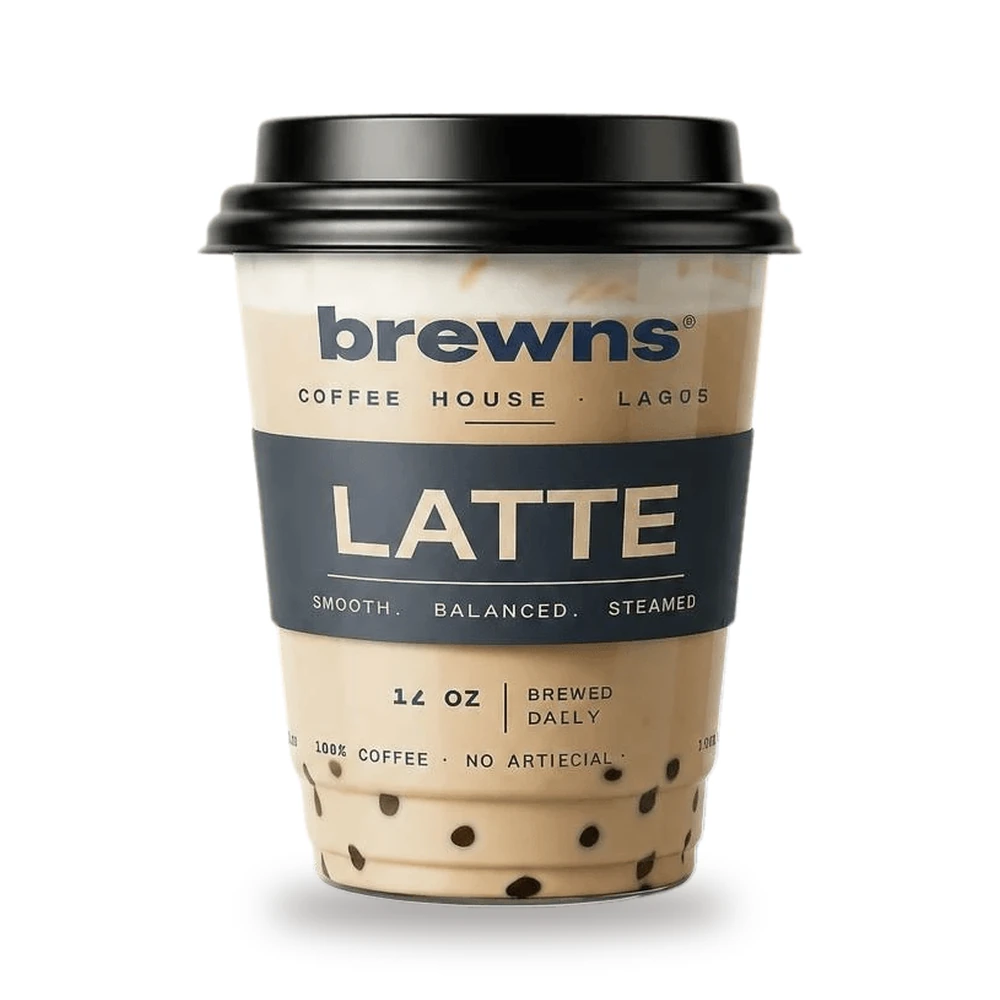
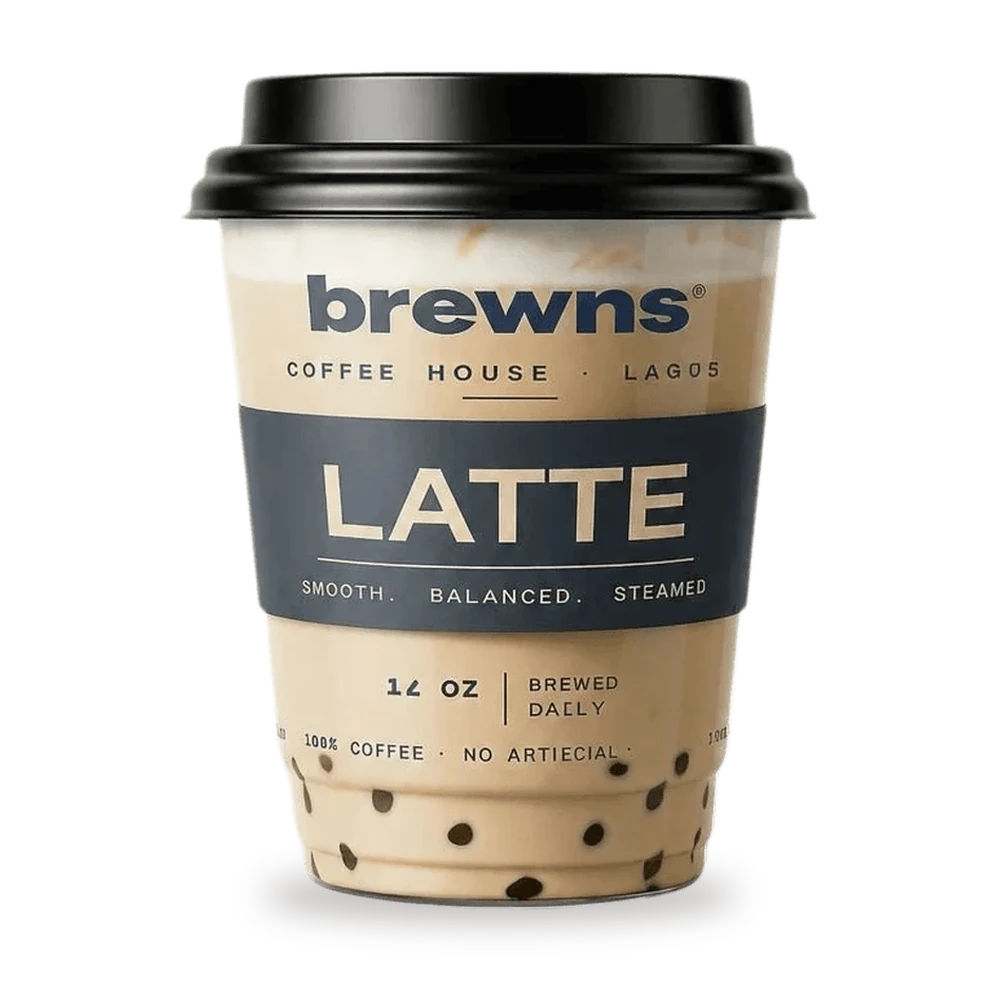
Product photos as transparent cut-outs: no white boxes on the cards
Every drink, bakery and kitchen photo is lifted out of its background and
set on a transparent square with a soft contact shadow, so it stands
straight on the menu cards, shop panels, thumbnails and product pages.
Kitchen photos move to .webp; the board edge on the fajita pizza and the
fries beside the smash burger are trimmed. The kitchen cut-out tool now
writes transparent .webp too. The studio versions are kept in
assets-src/menu/studio/.

Claude-Session: https://claude.ai/code/session_012i4ubs6s4YtqgTVK4SFGYP

Changed region(s): [[0.186, 0.062, 0.837, 0.961]]

diff --git a/components/brewns/initBrewns.ts b/components/brewns/initBrewns.ts
@@ -804,7 +804,7 @@ const KITCHEN = KITCHEN_BASE.map((k) => {
     // A real photo in public/assets/kitchen/ wins; until one is there the drawn
     // dish stands in. The server lists the photos that exist, so a missing one is
     // never requested; without that list, try <id>.jpg and fall back on error.
-    photo: kitchenPhotos ? (kitchenPhotos[k.id] ? `kitchen/${kitchenPhotos[k.id]}` : art) : `kitchen/${k.id}.jpg`,
+    photo: kitchenPhotos ? (kitchenPhotos[k.id] ? `kitchen/${kitchenPhotos[k.id]}` : art) : `kitchen/${k.id}.webp`,
     art,
     alt: `The brewns ${k.name.toLowerCase()}`,
     care: k.menuCat === "drinks" ? "Made to order and best within the hour. Ask for less ice or less sugar at the counter." : "Cooked to order when you arrive or when the rider is five minutes out, so it reaches you hot.",
@@ -835,13 +835,13 @@ const ALL_MENU_CARDS = [
   { id: "cardamom-bun", cat: "bakery", name: "CARDAMOM BUN", price: "Rs 750", file: "menu-cardamom.webp", size: [1024, 1024], frame: [200, 200, 0, 0], crop: ["0%", "0%", "100%", "100%"], cover: true, clip: true, alt: "A freshly baked Swedish cardamom bun with pearl sugar" },
   { id: "cortado", cat: "coffee", name: "CORTADO", price: "Rs 850", file: "menu-cortado.webp", size: [1024, 1024], frame: [190, 190, 0, 0], crop: ["0%", "0%", "100%", "100%"], cover: true, clip: true, alt: "A brewns cortado in a faceted glass with steamed microfoam" },
   { id: "nitro-cold-brew", cat: "specialty", name: "NITRO COLD BREW", price: "Rs 1,100", file: "menu-cold-brew.webp", size: [1024, 1024], frame: [190, 190, 0, 0], crop: ["0%", "0%", "100%", "100%"], cover: true, clip: true, alt: "A nitro cold brew coffee in a chilled glass with creamy cascading head" },
-  { id: "cinnamon-roll", cat: "bakery", name: "CINNAMON ROLL", price: "Rs 700", file: "menu-cinnamon.webp", size: [1536, 1024], frame: [327, 218, -8, 0], crop: ["0%", "0%", "100%", "100%"], cover: true, clip: true, alt: "A glazed cinnamon roll on a ceramic plate" },
+  { id: "cinnamon-roll", cat: "bakery", name: "CINNAMON ROLL", price: "Rs 700", file: "menu-cinnamon.webp", size: [1000, 1000], frame: [230, 230, 0, 0], crop: ["0%", "0%", "100%", "100%"], cover: true, clip: true, alt: "A glazed cinnamon roll on a ceramic plate" },
   { id: "matcha-financier", cat: "bakery", name: "MATCHA FINANCIER", price: "Rs 650", file: "menu-financier.webp", size: [1024, 1024], frame: [200, 200, 0, 0], crop: ["0%", "0%", "100%", "100%"], cover: true, clip: true, alt: "A golden-green matcha financier cake with dusted icing sugar" },
   { id: "iced-latte", cat: "coffee", name: "ICED LATTE", price: "Rs 1,050", file: "cup-iced-latte.webp", size: [1000, 1000], frame: [200, 200, 0, 0], crop: ["0%", "0%", "100%", "100%"], cover: true, clip: true, alt: "A brewns iced latte in a clear cup with a caramel leaf label" },
   { id: "slow-roast", cat: "beans", name: "SLOW ROAST", price: "Rs 3,800", file: "bag-slow-roast.webp", size: [611, 1040], frame: [112, 190, 0, 0], crop: ["0%", "0%", "100%", "100%"], cover: false, clip: true, alt: "A brewns Slow Roast bag in charcoal and sage green" },
   { id: "single-origin", cat: "beans", name: "ETHIOPIA YIRGACHEFFE", price: "Rs 4,800", file: "bag-yirgacheffe.webp", size: [654, 1040], frame: [119, 190, 0, 0], crop: ["0%", "0%", "100%", "100%"], cover: false, clip: true, alt: "A brewns Ethiopia single origin bag with an orange mountain landscape" },
   { id: "ceramic-tumbler", cat: "beans", name: "CERAMIC TUMBLER", price: "Rs 6,500", file: "tumbler-black.webp", size: [1000, 1000], frame: [190, 190, 0, 0], crop: ["0%", "0%", "100%", "100%"], cover: true, clip: true, alt: "Matte ceramic travel tumbler" },
-  ...KITCHEN.map((k) => ({ shot: true, id: k.id, cat: k.menuCat, name: k.name, price: rs(k.price), art: `${ASSET_BASE_URL}${k.photo}`, size: [800, 800], frame: [255, 255, 0, 0.5], crop: ["0%", "0%", "100%", "100%"], cover: false, clip: true, alt: k.alt })),
+  ...KITCHEN.map((k) => ({ shot: true, id: k.id, cat: k.menuCat, name: k.name, price: rs(k.price), art: `${ASSET_BASE_URL}${k.photo}`, size: [1000, 1000], frame: [225, 225, 0, 0.5], crop: ["0%", "0%", "100%", "100%"], cover: false, clip: true, alt: k.alt })),
 ];
 
 const cardHTML = (c, o) => {

diff --git a/app/sections.css b/app/sections.css
@@ -9,20 +9,19 @@
 .area-cards .pick-name { font-size: 0.9em; }
 .done-actions a.btn { text-decoration: none; }
 
-/* ── Kitchen pictures are square studio shots on white: the whole dish shows,
-   and the frame's spare width is the same white, so it reads as one photo. ── */
-.pcard-media:has(img.shot) { overflow: hidden; min-height: 15rem; margin-block: 0.75rem; background: #fff; }
+/* ── Product pictures are transparent cut-outs with their own soft contact
+   shadow: they stand straight on whatever card or panel holds them, with no
+   white box. Kitchen dishes are square, so the whole dish shows. ── */
+.pcard-media:has(img.shot) { overflow: hidden; min-height: 15rem; margin-block: 0.75rem; }
 .pcard-media img.shot { position: absolute; inset: 0; width: 100%; height: 100%; max-width: none; max-height: none; object-fit: contain; }
-.pcard-media:has(img.shot) .pcard-photo { background: #fff; opacity: 1; }
 .pcard:hover .pcard-media img.shot { transform: scale(1.05); }
-.thumb.shot img { width: 100%; height: 100%; object-fit: cover; }
+.thumb.shot img { width: 92%; height: 92%; object-fit: contain; }
 /* Cut-out products (the bags) are tall: the stage's percentage limits don't bind
    inside its grid, so they are held to the window's height, and a soft shadow
    stands them on the page. */
 .pdp-photo.cutout { max-width: 60%; max-height: min(64vh, 40rem); filter: drop-shadow(0 1.75rem 1.75rem rgb(0 0 0 / 0.22)); }
 @media (max-width: 767.98px) { .pdp-photo.cutout { max-height: 32vh; } }
-.pdp-photo.shot { max-width: min(78%, 36rem); max-height: 80%; border-radius: 4px; box-shadow: 0 2rem 4rem -1rem rgb(0 0 0 / 0.45); }
-.card-media.shot .still img { border-radius: 4px; box-shadow: 0 1.25rem 2.5rem -1rem rgb(0 0 0 / 0.4); }
+.pdp-photo.shot { max-width: min(78%, 36rem); max-height: 80%; }
 
 /* ── Order tracking: stages, rider, map, messages, receipt ── */
 .trk-steps { flex: 1; list-style: none; margin: 0; padding: 0; border-top: 1px solid rgb(255 255 255 / 0.15); }

diff --git a/components/brewns/foodArt.ts b/components/brewns/foodArt.ts
@@ -2,7 +2,7 @@
  * Pictures for the kitchen menu (burgers, pasta, rolls, pizza, coolers).
  *
  * There are no photographs of these dishes yet (a real photo in
- * public/assets/kitchen/<id>.jpg replaces the drawing), so each dish is drawn
+ * public/assets/kitchen/<id>.webp replaces the drawing), so each dish is drawn
  * as a studio shot: a warm backdrop and table, soft top light, vignette and
  * grain, the dish on its own serveware, with texture from SVG noise filters.
  * Every picture is a full-bleed square, used like a photo.

diff --git a/public/assets/kitchen/README.md b/public/assets/kitchen/README.md
@@ -24,8 +24,8 @@ development, or the next build in production.
 Use only photos you have the rights to: your own shoot, or a library whose
 licence allows commercial use (Unsplash, Pexels).
 
-To put the photos on a clean white background like the coffee shots (dish
-cut out, centred, soft shadow), run this once after adding them:
+To cut the dishes out like the coffee shots (transparent background, centred,
+soft shadow, so they sit straight on the cards), run this once after adding them:
 
     bun install
     bun run kitchen:white
